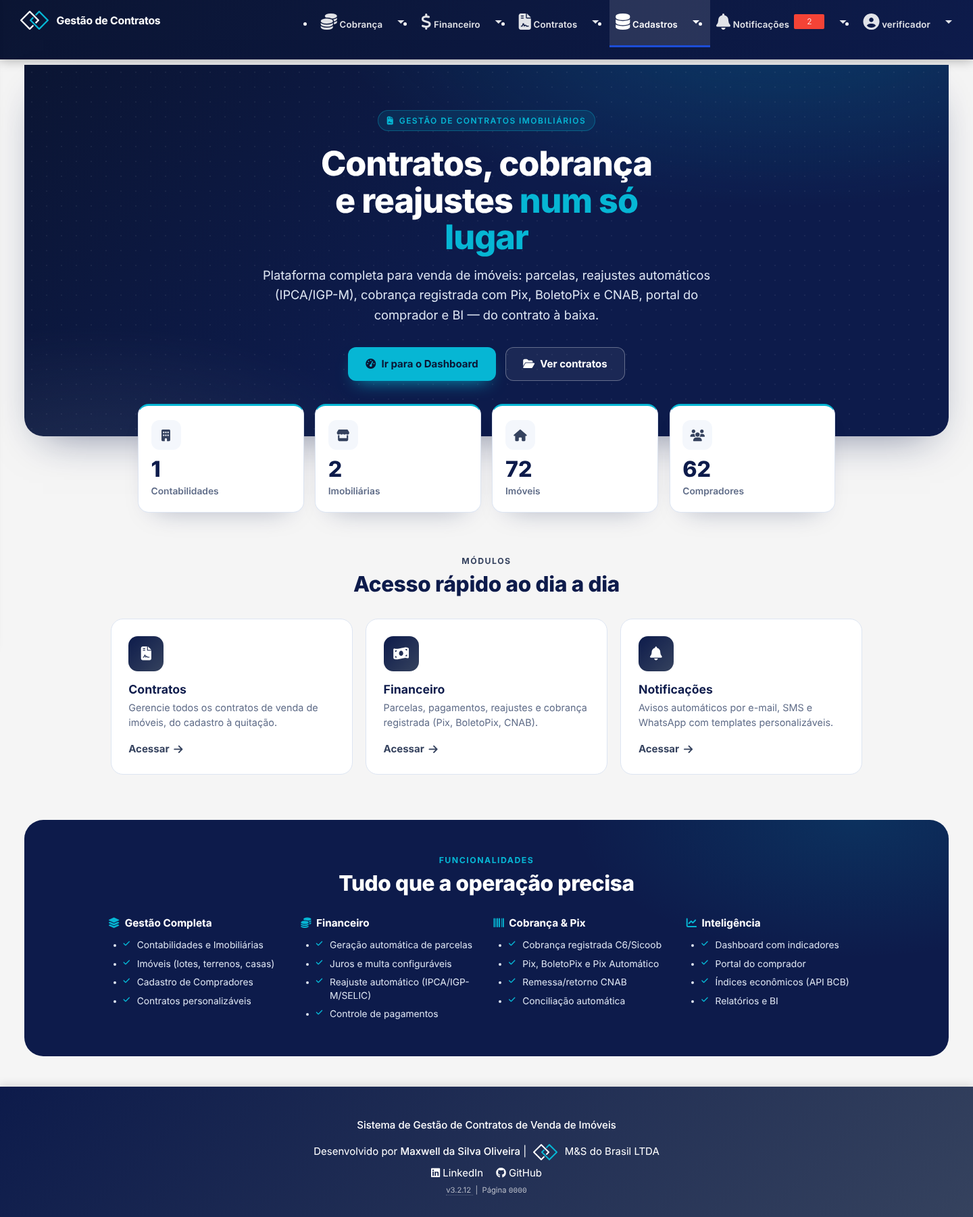
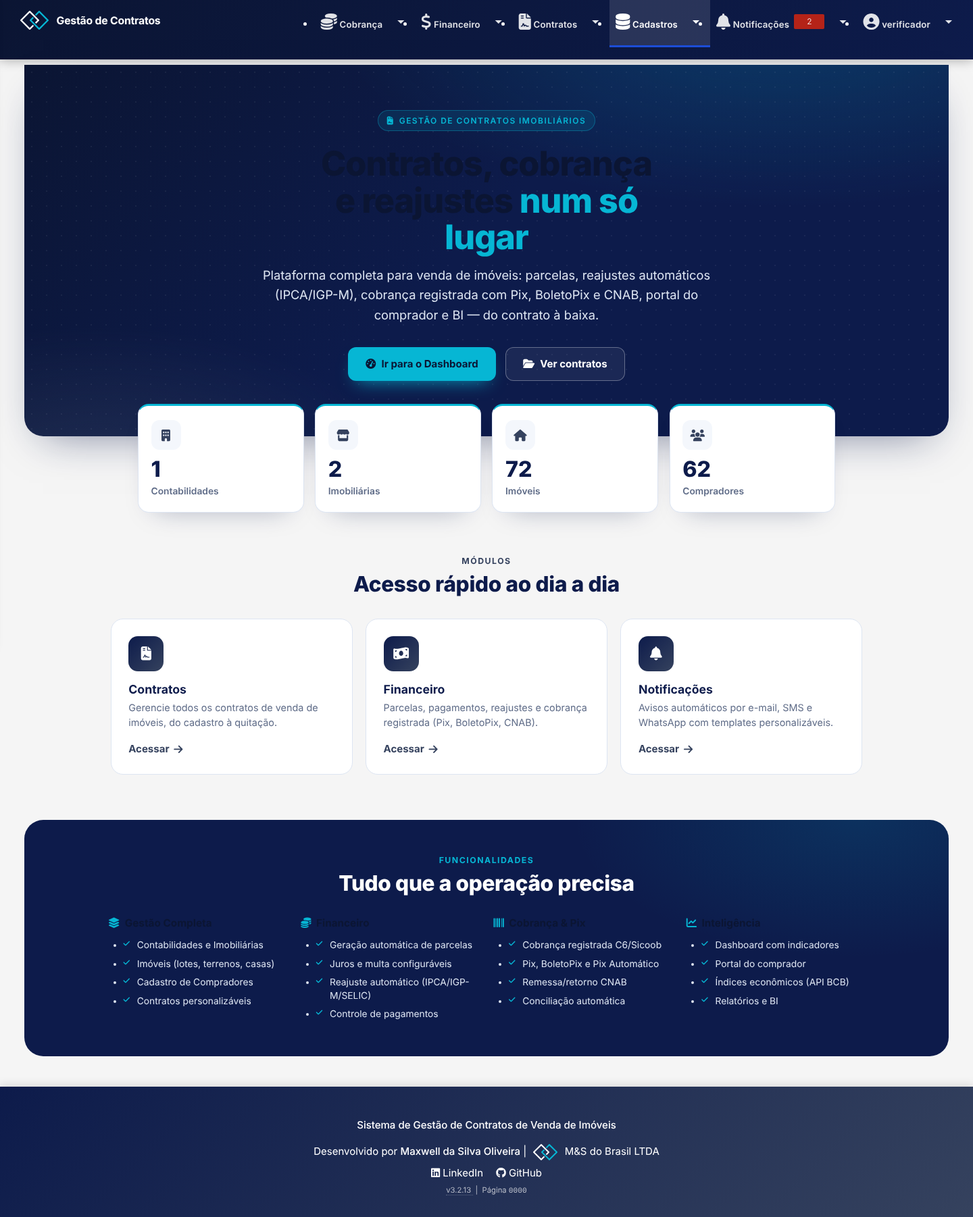
fix(ui): revisão do tema claro (contraste WCAG AA, breadcrumb, títulos, mapa)
Auditoria automática de contraste em 30 telas: 216 textos abaixo de 4,5:1
(3:1 para texto grande) passam a 0, inclusive sobre gradientes.

- informação: fundos e textos em #0369A1 (o ciano escuro fica para gráficos);
  selos e contadores laranja/vermelho nas cores funcionais da marca
- selos de status da parcela com texto branco (o span.badge do Materialize
  pintava de cinza); botão de alerta com texto branco
- botão claro em cabeçalho marinho ("Novo Contrato (Simples)", "Nova
  Imobiliária"…) estava branco sobre branco
- cabeçalho de cartão .bg-light volta a ser claro (o gradiente marinho ficava
  por cima); rótulos de caixa de seleção, texto auxiliar em linhas e cartões
  tingidos, cabeçalhos "opcional" e cartões de período legíveis
- títulos de página na tinta da marca; dentro de superfícies escuras herdam
- breadcrumb numa linha só (o estilo "nav i" do Materialize quebrava a linha)
- selos alinhados nas células do AG Grid
- sobras fora da paleta: roxo no chip selecionado, INPC em vermelho,
  cinzas e laranjas de gradiente, verde do WhatsApp sem contraste
- mapa de imóveis e página do loteamento: coordenadas com vírgula decimal
  quebravam o JavaScript (|unlocalize)
- captura da página inicial do README atualizada

diff --git a/static/css/custom.css b/static/css/custom.css
@@ -207,7 +207,7 @@ a:not(.btn):hover {
 }
 
 .btn-success:hover {
-    background: linear-gradient(135deg, #047857, #1e8449);
+    background: linear-gradient(135deg, #047857, #065F46);
 }
 
 .btn-danger {
@@ -216,7 +216,7 @@ a:not(.btn):hover {
 }
 
 .btn-danger:hover {
-    background: linear-gradient(135deg, #B42318, #a93226);
+    background: linear-gradient(135deg, #B42318, #912018);
 }
 
 .btn-outline-primary:hover,
@@ -1505,10 +1505,10 @@ ul.dropdown-content.app-dropdown li > a:hover {
 .btn-secondary:hover { background: #35425E; color: #fff; }
 
 .btn-success   { background: linear-gradient(135deg, var(--success-color), #047857); color: #fff; border-color: transparent; }
-.btn-success:hover { background: linear-gradient(135deg, #047857, #1e8449); color: #fff; transform: translateY(-1px); }
+.btn-success:hover { background: linear-gradient(135deg, #047857, #065F46); color: #fff; transform: translateY(-1px); }
 
 .btn-danger    { background: linear-gradient(135deg, var(--danger-color), #B42318); color: #fff; border-color: transparent; }
-.btn-danger:hover { background: linear-gradient(135deg, #B42318, #a93226); color: #fff; transform: translateY(-1px); }
+.btn-danger:hover { background: linear-gradient(135deg, #B42318, #912018); color: #fff; transform: translateY(-1px); }
 
 .btn-warning   { background: var(--warning-color); color: #212529; border-color: transparent; }
 .btn-warning:hover { background: #d68910; color: #212529; }
@@ -2056,8 +2056,8 @@ label.form-label,
 
 .card-obrigatorio { border-left: 4px solid var(--danger-color) !important; }
 .card-obrigatorio > .card-header::after { content: " (Obrigatorio)"; font-size: 0.7rem; opacity: 0.85; font-weight: normal; }
-.card-opcional { border-left: 4px solid #95a5a6 !important; }
-.card-opcional > .card-header { background: linear-gradient(135deg, #7f8c8d, #95a5a6) !important; }
+.card-opcional { border-left: 4px solid #5F6C88 !important; }
+.card-opcional > .card-header { background: linear-gradient(135deg, #0B1533, #35425E) !important; }
 .card-opcional > .card-header::after { content: " (Opcional)"; font-size: 0.7rem; opacity: 0.85; font-weight: normal; }
 
 /* ========================================================================
@@ -2104,6 +2104,12 @@ nav.app-breadcrumb a {
 .breadcrumb-item a { color: var(--secondary-color); text-decoration: none; }
 .breadcrumb-item a:hover { text-decoration: underline; }
 .breadcrumb-item.active { color: #5F6C88; }
+/* Materialize estiliza "nav i" como ícone de barra (bloco, 24 px, 56 px de altura,
+   flutuando): no breadcrumb isso empurrava o caminho para a linha de baixo */
+nav[aria-label="breadcrumb"] i, nav.app-breadcrumb i,
+nav[aria-label="Paginação"] i, nav[aria-label="Navegação de páginas"] i {
+    display: inline-block; float: none; font-size: inherit; height: auto; line-height: inherit;
+}
 
 /* ========================================================================
    DESCRIPTION LIST (dl.row) BRIDGE
@@ -2350,6 +2356,57 @@ dl.row dd { margin: 0; color: var(--dark-text); font-size: 0.9rem; }
     .stats-card h3 { font-size: 2rem; }
     .hide-on-small { display: none !important; }
 }
+
+/* ========================================================================
+   REVISÃO DO TEMA CLARO — contraste mínimo WCAG AA (4,5:1 texto, 3:1 grande)
+   ======================================================================== */
+/* Selos de status da parcela: o .badge do Materialize pinta o texto de cinza */
+.badge-pago, .badge-pendente, .badge-vencida { color: #fff; }
+/* Contadores da barra (Materialize): laranja e vermelho da paleta funcional */
+.new.badge.orange, .badge.orange { background-color: var(--ms-alerta, #B54708) !important; }
+.new.badge.red, .badge.red { background-color: var(--ms-erro, #B42318) !important; }
+/* Informação: o ciano escuro é só para gráfico; em fundo de texto usa-se #0369A1 */
+.bg-info, .badge.bg-info, .progress-bar.bg-info, .card-header.bg-info, .btn-info {
+    background-color: var(--ms-informacao, #0369A1) !important; color: #fff !important;
+}
+.btn-info:hover { background-color: #075985 !important; }
+.bg-info.text-dark, .bg-info .text-dark { color: #fff !important; }
+.text-info { color: var(--ms-informacao, #0369A1) !important; }
+.btn-outline-info { color: var(--ms-informacao, #0369A1); border-color: var(--ms-informacao, #0369A1); }
+.btn-outline-info:hover { background: var(--ms-informacao, #0369A1); color: #fff; }
+.bg-teal { background-color: #0E7490 !important; color: #fff !important; }
+/* Alerta (#B54708) é escuro: texto branco também nos botões */
+.btn-warning, .btn-warning:hover, .btn-warning:focus { color: #fff !important; }
+/* Selo claro: névoa com borda (o cinza do texto não passava sobre a linha) */
+.badge.bg-light { background-color: var(--ms-nevoa, #F4F7FC) !important; border: 1px solid var(--ms-linha, #DDE5F2); }
+/* Botão claro dentro do cabeçalho marinho: herdava o texto branco dos links */
+.card-header .btn-light, .card-header a.btn-light {
+    background: #fff !important; color: var(--ms-marinho, #0D1B4B) !important; border-color: transparent;
+}
+.card-header .btn-light:hover { background: var(--ms-nevoa, #F4F7FC) !important; }
+/* Rótulos de caixa de seleção: o Materialize usa #9e9e9e (2,7:1) */
+.form-check-label, [type="checkbox"] + span:not(.lever), [type="radio"] + span { color: var(--ms-texto, #35425E); }
+/* Texto auxiliar em linhas coloridas de tabela */
+.table-success .text-muted, .table-danger .text-muted, .table-warning .text-muted,
+.table-info .text-muted { color: var(--ms-texto, #35425E) !important; }
+/* Cabeçalho de cartão pedido claro (.bg-light/.bg-white): o gradiente marinho do
+   .card-header ficava por cima da cor de fundo e o cabeçalho saía escuro */
+.card-header.bg-light, .card-header.bg-white {
+    background-image: none !important; color: var(--ms-tinta, #0B1533);
+    border-bottom: 1px solid var(--ms-linha, #DDE5F2);
+}
+.card-header.bg-light a:not(.btn), .card-header.bg-white a:not(.btn) { color: var(--ms-azul, #1D4ED8); }
+/* Títulos de página na tinta da marca; dentro de superfícies escuras herdam a cor */
+.main-container :where(h1, h2, h3, h4, h5, h6) { color: var(--ms-tinta, #0B1533); }
+.main-container :where(.card-header:not(.bg-light):not(.bg-white), [class*="bg-"]:not(.bg-light):not(.bg-white):not(.bg-opacity-10):not(.bg-opacity-25),
+    .modal-header, .text-white, .white-text, .alert) :where(h1, h2, h3, h4, h5, h6) { color: inherit; }
+/* Especificidade: o "span.badge" do Materialize vence ".badge-*" e pinta o texto de cinza */
+span.badge.badge-pago, span.badge.badge-pendente, span.badge.badge-vencida { color: #fff; }
+/* Rótulos soltos (fora de .input-field): o "label" do Materialize é #9e9e9e */
+label.fw-semibold, label.form-label, label.fw-bold { color: var(--ms-texto, #35425E); }
+/* Texto auxiliar sobre cartões e linhas com fundo tingido */
+.kpi-card .text-muted, .kpi-card-danger .text-muted, .parcela-row .text-muted,
+.row-paga .text-muted, .linha-paga .text-muted { color: var(--ms-texto, #35425E) !important; }
 
 /* ========================================================================
    U-01: DARK MODE
@@ -2646,7 +2703,7 @@ body.dark-mode .modal, body.dark-mode .modal .modal-footer { background-color: v
    texto auxiliar continua legível sobre o marinho. */
 .card-header.bg-warning { background: var(--warning-color) !important; color: #fff !important; }
 .card-header.bg-warning.text-dark, .card-header.bg-warning .text-dark { color: #fff !important; }
-.card-header:not(.bg-light):not(.bg-white):not(.bg-warning) .text-muted { color: rgba(255, 255, 255, 0.72) !important; }
+.card-header:not(.bg-light):not(.bg-white):not(.bg-warning) .text-muted { color: rgba(255, 255, 255, 0.85) !important; }
 
 /* Anel de foco da marca: 2 px na cor de foco, com 2 px de afastamento */
 a:focus-visible, button:focus-visible, .btn:focus-visible, [tabindex]:focus-visible {
@@ -2675,3 +2732,9 @@ body.dark-mode .ag-theme-material .ag-row, body.dark-mode .ag-theme-material .ag
 body.dark-mode .ag-theme-material .ag-header { background-color: var(--ms-esc-realce); }
 body.dark-mode .ag-theme-material .ag-root-wrapper, body.dark-mode .ag-theme-material .ag-paging-panel { background-color: var(--ms-esc-cartao); color: var(--ms-linha); }
 body.dark-mode .periodo-card, body.dark-mode .periodo-card .card-body { background: var(--ms-esc-cartao) !important; }
+
+/* Selos dentro de células do AG Grid: alinhados à linha do texto */
+.ag-theme-material .ag-cell span.badge {
+    float: none; height: auto; min-width: 0; margin-left: 0;   /* "span.badge" do Materialize flutua e fixa altura */
+    line-height: 1.35; vertical-align: middle; display: inline-block;
+}

diff --git a/templates/core/imobiliaria_form.html b/templates/core/imobiliaria_form.html
@@ -26,9 +26,9 @@
     }
     .imobiliaria-form .card-header i { color: #0891B2; }
     .imobiliaria-form .card-header strong { color: #ffffff; }
-    .imobiliaria-form .card-header small { color: #bdc3c7; }
+    .imobiliaria-form .card-header small { color: #DDE5F2; }
     .imobiliaria-form .card-header.bg-light {
-        background: linear-gradient(135deg, #7f8c8d, #95a5a6) !important;
+        background: linear-gradient(135deg, #0B1533, #35425E) !important;
     }
     .imobiliaria-form .form-control, .imobiliaria-form .form-select {
         font-size: 0.9rem;
@@ -42,7 +42,7 @@
         margin-bottom: 0.25rem;
     }
     .help-card .card-header {
-        background: linear-gradient(135deg, #0891B2, #0891B2) !important;
+        background: linear-gradient(135deg, #0369A1, #0369A1) !important;
     }
     .is-valid { border-color: #047857 !important; }
     .is-invalid { border-color: #B42318 !important; }
@@ -62,7 +62,7 @@
     }
     .metodo-chip:hover { border-color: #0891B2; }
     .metodo-chip input[type=checkbox] { width: 1.05rem; height: 1.05rem; margin: 0; cursor: pointer; accent-color: #0891B2; }
-    .metodo-chip.is-checked { border-color: #0891B2; background: #f6effa; color: #6c3483; }
+    .metodo-chip.is-checked { border-color: #0891B2; background: #E8EEFC; color: #0D1B4B; }
     .metodo-chip .metodo-chip-lock { display: none; color: #b0b0b0; font-size: .8rem; }
     .metodo-chip.is-disabled {
         opacity: .5; cursor: not-allowed; background: #F4F7FC; border-style: dashed;
@@ -78,7 +78,7 @@
     .badge-boleto { background: #e7f1ff; color: #1D4ED8; }
     .badge-bolepix, .badge-pix { background: #e6f7f0; color: #1a9e6a; }
     .badge-pix_automatico { background: #fff3e0; color: #e07b00; }
-    .badge-checkout, .badge-cartao { background: #f6effa; color: #7d3ac1; }
+    .badge-checkout, .badge-cartao { background: #E8EEFC; color: #7d3ac1; }
 
     /* Cards de meios de pagamento (modal da conta) */
     .meio-card { border: 1px solid #e3e7ec; border-radius: 0.6rem; margin-bottom: 0.6rem; overflow: hidden; }
@@ -102,7 +102,7 @@
     .modelo-opts { display: flex; gap: 0.6rem; }
     .modelo-opt { flex: 1; border: 2px solid #dfe3e8; border-radius: 0.5rem; padding: 0.5rem 0.75rem; cursor: pointer; text-align: center; margin: 0; }
     .modelo-opt input { margin-right: 0.35rem; accent-color: #0891B2; }
-    .modelo-opt:has(input:checked) { border-color: #0891B2; background: #f6effa; color: #6c3483; }
+    .modelo-opt:has(input:checked) { border-color: #0891B2; background: #E8EEFC; color: #0D1B4B; }
     .badge-principal { background: #047857; }
     .btn-add-conta { border-style: dashed; }
 
@@ -278,7 +278,7 @@
                 <!-- Card: Configurações Padrão de Boleto (accordion) -->
                 <div class="card mb-3" style="border-color: #0891B2;">
                     <div class="card-header py-2 d-flex justify-content-between align-items-center"
-                         style="background: linear-gradient(135deg, #0891B2, #0891B2); color: white; cursor: pointer;"
+                         style="background: linear-gradient(135deg, #0369A1, #0369A1); color: white; cursor: pointer;"
                          id="acc-boleto-header" onclick="toggleAccordion('acc-boleto')">
                         <span><i class="fas fa-barcode me-2"></i><strong>Configurações Padrão de Boleto</strong></span>
                         <i class="fas fa-chevron-down" id="acc-boleto-icon" style="transition: transform .25s;"></i>
@@ -440,7 +440,7 @@
 
                 <!-- Card: Contas Bancárias (dentro do form) -->
                 <div class="card mb-3" style="border-color: #5F6C88;">
-                    <div class="card-header py-2 d-flex justify-content-between align-items-center" style="background: linear-gradient(135deg, #5F6C88, #495057); color: white;">
+                    <div class="card-header py-2 d-flex justify-content-between align-items-center" style="background: linear-gradient(135deg, #5F6C88, #35425E); color: white;">
                         <span>
                             <i class="fas fa-university me-2"></i><strong>Contas Bancárias</strong>
                         </span>

diff --git a/templates/financeiro/cobranca/conciliacao_saude.html b/templates/financeiro/cobranca/conciliacao_saude.html
@@ -9,7 +9,7 @@
   .kpi-grid > .kpi-col { flex:1 1 170px; }
   .kpi-card { border:1px solid #DDE5F2; border-radius:.5rem; box-shadow:0 4px 12px rgba(13, 27, 75,.05); }
   .kpi-value { font-size:1.5rem; font-weight:700; line-height:1.1; }
-  .kpi-label { font-size:.7rem; letter-spacing:.05em; text-transform:uppercase; color:#64748b; font-weight:600; }
+  .kpi-label { font-size:.7rem; letter-spacing:.05em; text-transform:uppercase; color:#5F6C88; font-weight:600; }
   .origem-dot { width:10px; height:10px; border-radius:50%; display:inline-block; }
   .aging-cell { border:1px solid #DDE5F2; border-radius:.5rem; padding:.75rem; text-align:center; }
   .aging-clic { cursor:pointer; transition:box-shadow .15s; }
@@ -74,7 +74,7 @@
       <div class="row g-2">
         <div class="col-3"><div class="aging-cell aging-clic" data-bucket="a_vencer" role="button"><div class="fw-bold">R$ {{ aging.a_vencer.valor|floatformat:2 }}</div><div class="small text-muted">A vencer ({{ aging.a_vencer.qtd }})</div></div></div>
         <div class="col-3"><div class="aging-cell aging-clic" data-bucket="d1_30" role="button" style="border-color:rgba(245,158,11,.4);background:rgba(245,158,11,.05)"><div class="fw-bold text-warning">R$ {{ aging.d1_30.valor|floatformat:2 }}</div><div class="small text-muted">1–30 ({{ aging.d1_30.qtd }})</div></div></div>
-        <div class="col-3"><div class="aging-cell aging-clic" data-bucket="d31_60" role="button" style="border-color:rgba(234,88,12,.4);background:rgba(234,88,12,.05)"><div class="fw-bold" style="color:#ea580c">R$ {{ aging.d31_60.valor|floatformat:2 }}</div><div class="small text-muted">31–60 ({{ aging.d31_60.qtd }})</div></div></div>
+        <div class="col-3"><div class="aging-cell aging-clic" data-bucket="d31_60" role="button" style="border-color:rgba(234,88,12,.4);background:rgba(234,88,12,.05)"><div class="fw-bold" style="color:#B54708">R$ {{ aging.d31_60.valor|floatformat:2 }}</div><div class="small text-muted">31–60 ({{ aging.d31_60.qtd }})</div></div></div>
         <div class="col-3"><div class="aging-cell aging-clic" data-bucket="d60_mais" role="button" style="border-color:rgba(180, 35, 24,.4);background:rgba(180, 35, 24,.05)"><div class="fw-bold text-danger">R$ {{ aging.d60_mais.valor|floatformat:2 }}</div><div class="small text-muted">60+ ({{ aging.d60_mais.qtd }})</div></div></div>
       </div>
     </div></div></div>

diff --git a/templates/core/imovel_list.html b/templates/core/imovel_list.html
@@ -1,4 +1,5 @@
 {% extends 'base.html' %}
+{% load l10n %}
 {% load crispy_forms_tags %}
 {% load hashid_tags %}
 {% load format_filters %}
@@ -180,7 +181,7 @@
                                                     <div class="btn-group btn-group-sm" role="group">
                                                         {% if imovel.tem_coordenadas %}
                                                         <button type="button" class="btn btn-outline-success" title="Ver no Mapa"
-                                                                onclick="verNoMapa({{ imovel.latitude }}, {{ imovel.longitude }}, '{{ imovel.identificacao }}')">
+                                                                onclick="verNoMapa({{ imovel.latitude|unlocalize }}, {{ imovel.longitude|unlocalize }}, '{{ imovel.identificacao }}')">
                                                             <i class="fas fa-map-marker-alt"></i>
                                                         </button>
                                                         {% endif %}
@@ -330,8 +331,8 @@ const imoveisData = [
     {% for imovel in todos_imoveis_mapa %}
     {
         id: {{ imovel.pk }},
-        lat: {{ imovel.latitude }},
-        lng: {{ imovel.longitude }},
+        lat: {{ imovel.latitude|unlocalize }},
+        lng: {{ imovel.longitude|unlocalize }},
         nome: "{{ imovel.identificacao|escapejs }}",
         loteamento: "{{ imovel.loteamento|default:''|escapejs }}",
         tipo: "{{ imovel.get_tipo_display|escapejs }}",

diff --git a/templates/notificacoes/template_list.html b/templates/notificacoes/template_list.html
@@ -129,7 +129,7 @@ function canaisRenderer(params) {
     if (d.tem_sms)
         badges += '<span class="canal-badge bg-info text-white me-1"><i class="fas fa-sms me-1"></i>SMS</span>';
     if (d.tem_whatsapp)
-        badges += '<span class="canal-badge text-white me-1" style="background:#25D366"><i class="fab fa-whatsapp me-1"></i>WA</span>';
+        badges += '<span class="canal-badge text-white me-1" style="background:#075E54"><i class="fab fa-whatsapp me-1"></i>WA</span>';
     return badges || '<span class="badge bg-secondary">—</span>';
 }
 
@@ -200,7 +200,7 @@ document.addEventListener('DOMContentLoaded', function() {
                 let canais = '';
                 if (data.tem_email)    canais += '<span class="badge bg-primary me-1"><i class="fas fa-envelope me-1"></i>Email</span>';
                 if (data.tem_sms)      canais += '<span class="badge bg-info me-1"><i class="fas fa-sms me-1"></i>SMS</span>';
-                if (data.tem_whatsapp) canais += '<span class="badge text-white me-1" style="background:#25D366"><i class="fab fa-whatsapp me-1"></i>WhatsApp</span>';
+                if (data.tem_whatsapp) canais += '<span class="badge text-white me-1" style="background:#075E54"><i class="fab fa-whatsapp me-1"></i>WhatsApp</span>';
 
                 let html = `<div class="mb-3"><strong>Nome:</strong> ${data.nome} &nbsp; ${canais}</div>`;
 

diff --git a/templates/financeiro/cobranca/hub.html b/templates/financeiro/cobranca/hub.html
@@ -17,14 +17,14 @@
                  align-items:center; justify-content:center; font-weight:700;
                  transition:transform .15s ease; }
   .step-title { font-weight:700; font-size:.85rem; white-space:nowrap; }
-  .step-count { font-size:.78rem; color:#64748b; white-space:nowrap; }
+  .step-count { font-size:.78rem; color:#5F6C88; white-space:nowrap; }
   .step-count-api { font-size:.75rem; color:#a5842e; white-space:nowrap; }
   .step-line { flex:1 1 auto; min-width:26px; height:3px; background:#DDE5F2;
                border-radius:2px; margin-top:23px; }
   .step-line.done { background:#1D4ED8; }
   .kpi-card { border:1px solid #DDE5F2; border-radius:.5rem; box-shadow:0 4px 12px rgba(13, 27, 75,.05); }
   .kpi-value { font-size:1.6rem; font-weight:700; line-height:1.1; }
-  .kpi-label { font-size:.72rem; letter-spacing:.05em; text-transform:uppercase; color:#64748b; font-weight:600; }
+  .kpi-label { font-size:.72rem; letter-spacing:.05em; text-transform:uppercase; color:#5F6C88; font-weight:600; }
   .kpi-ico { width:34px; height:34px; border-radius:9px; display:grid; place-items:center;
              background:#f1f5f9; color:#35425E; font-size:.95rem; }
   .badge-estado { font-size:.68rem; font-weight:700; letter-spacing:.03em; white-space:nowrap; }

diff --git a/templates/core/imovel_form.html b/templates/core/imovel_form.html
@@ -33,13 +33,13 @@
         color: #ffffff;
     }
     .imovel-form .card-header small {
-        color: #bdc3c7;
+        color: #DDE5F2;
     }
 
     /* Header claro para secoes secundarias (opcionais) */
     .imovel-form .card-header.bg-light,
     .imovel-form .card.card-opcional .card-header {
-        background: linear-gradient(135deg, #7f8c8d, #95a5a6) !important;
+        background: linear-gradient(135deg, #0B1533, #35425E) !important;
         color: #ffffff !important;
     }
     .imovel-form .card-header.bg-light strong,
@@ -87,7 +87,7 @@
 
     /* Card de campos opcionais */
     .card-opcional {
-        border-left: 4px solid #95a5a6 !important;
+        border-left: 4px solid #5F6C88 !important;
     }
     .card-opcional .card-header::after {
         content: " (Opcional)";
@@ -97,7 +97,7 @@
 
     /* Card de ajuda */
     .help-card .card-header {
-        background: linear-gradient(135deg, #0891B2, #0891B2) !important;
+        background: linear-gradient(135deg, #0369A1, #0369A1) !important;
     }
 
     /* Validacao */
@@ -131,7 +131,7 @@
         font-weight: bold;
     }
     .legenda-campos .opcional {
-        color: #95a5a6;
+        color: #5F6C88;
     }
 </style>
 <!-- Leaflet CSS (alternativa gratuita ao Google Maps) -->

diff --git a/templates/financeiro/dashboard_contabilidade.html b/templates/financeiro/dashboard_contabilidade.html
@@ -11,9 +11,9 @@
   .kpi-card .val { font-size:1.8rem; font-weight:700; line-height:1.2; }
   .kpi-card .lbl { font-size:.82rem; opacity:.85; margin-top:4px; }
   .kpi-blue   { background: linear-gradient(135deg,#1D4ED8,#1D4ED8); }
-  .kpi-green  { background: linear-gradient(135deg,#047857,#43a047); }
-  .kpi-amber  { background: linear-gradient(135deg,#e65100,#fb8c00); }
-  .kpi-red    { background: linear-gradient(135deg,#b71c1c,#e53935); }
+  .kpi-green  { background: linear-gradient(135deg,#047857,#047857); }
+  .kpi-amber  { background: linear-gradient(135deg,#93370D,#B54708); }
+  .kpi-red    { background: linear-gradient(135deg,#912018,#B42318); }
   .chart-card { background:#fff; border-radius:10px; box-shadow:0 1px 4px rgba(0,0,0,.1); padding:20px; margin-bottom:20px; }
   .chart-card h6 { font-weight:700; margin-bottom:14px; color:#424242; }
   .imob-row:hover { background:#F4F7FC; }

diff --git a/templates/financeiro/cnab/remessa_painel.html b/templates/financeiro/cnab/remessa_painel.html
@@ -13,7 +13,7 @@
     .kpi-ic-danger  { background: rgba(180, 35, 24,.13);  color:#B42318; }
     .kpi-ic-success { background: rgba(4, 120, 87,.13);  color:#047857; }
     .kpi-value { font-size: 1.6rem; font-weight: 700; line-height: 1.1; }
-    .kpi-label { font-size: .72rem; letter-spacing: .05em; text-transform: uppercase; color:#64748b; font-weight:600; }
+    .kpi-label { font-size: .72rem; letter-spacing: .05em; text-transform: uppercase; color:#5F6C88; font-weight:600; }
     .banco-card { border:1px solid #DDE5F2; border-radius:.5rem; box-shadow:0 4px 12px rgba(13, 27, 75,.05); overflow:hidden; }
     .banco-card .card-head { background:#eff4ff; border-bottom:1px solid #DDE5F2; }
     .badge-layout { font-size:.68rem; letter-spacing:.08em; }

diff --git a/templates/base.html b/templates/base.html
@@ -426,7 +426,7 @@
         @keyframes toastOut { from { transform: translateX(0); opacity: 1; } to { transform: translateX(120%); opacity: 0; } }
         .global-toast.success { background: linear-gradient(135deg,#047857,#047857); }
         .global-toast.error   { background: linear-gradient(135deg,#B42318,#B42318); }
-        .global-toast.warning { background: linear-gradient(135deg,#d68910,#f39c12); }
+        .global-toast.warning { background: linear-gradient(135deg,#93370D,#B54708); }
         .global-toast.info    { background: linear-gradient(135deg,#0D1B4B,#1E40AF); }
         .global-toast .toast-icon { font-size: 1.3rem; margin-top: 1px; }
         .global-toast .toast-body { flex: 1; font-size: .92rem; line-height: 1.4; }

diff --git a/templates/contratos/contrato_detail.html b/templates/contratos/contrato_detail.html
@@ -1860,7 +1860,7 @@
                 '<div style="font-size:1.3rem;font-weight:700;color:' + textColor + ';margin:2px 0;">' + icon + '</div>' +
                 '<div style="font-size:.7rem;color:#5F6C88;margin-top:2px;">' + c.primeiraNum + '–' + c.ultimaNum + '</div>' +
                 (labelCiclo ? '<div style="font-size:.7rem;font-weight:600;color:' + textColor + ';margin-top:3px;">' + labelCiclo + '</div>' : '') +
-                '<div style="font-size:.65rem;color:#9e9e9e;margin-top:2px;">' + c.pagas + '/' + c.total + ' pagas</div>' +
+                '<div style="font-size:.65rem;color:#5F6C88;margin-top:2px;">' + c.pagas + '/' + c.total + ' pagas</div>' +
             '</div>' +
         '</div>' + connector;
     });

diff --git a/templates/financeiro/cnab/retorno_painel.html b/templates/financeiro/cnab/retorno_painel.html
@@ -12,7 +12,7 @@
     .kpi-ic-info    { background: rgba(6, 182, 212,.16); color:#0aa2c0; }
     .kpi-ic-danger  { background: rgba(180, 35, 24,.13);  color:#B42318; }
     .kpi-value { font-size: 1.6rem; font-weight: 700; line-height: 1.1; }
-    .kpi-label { font-size: .72rem; letter-spacing: .05em; text-transform: uppercase; color:#64748b; font-weight:600; }
+    .kpi-label { font-size: .72rem; letter-spacing: .05em; text-transform: uppercase; color:#5F6C88; font-weight:600; }
     .kpi-grid { display:flex; flex-wrap:wrap; gap:.75rem; }
     .kpi-grid > .kpi-col { flex:1 1 180px; }
     .banco-card { border:1px solid #DDE5F2; border-radius:.5rem; box-shadow:0 4px 12px rgba(13, 27, 75,.05); }
